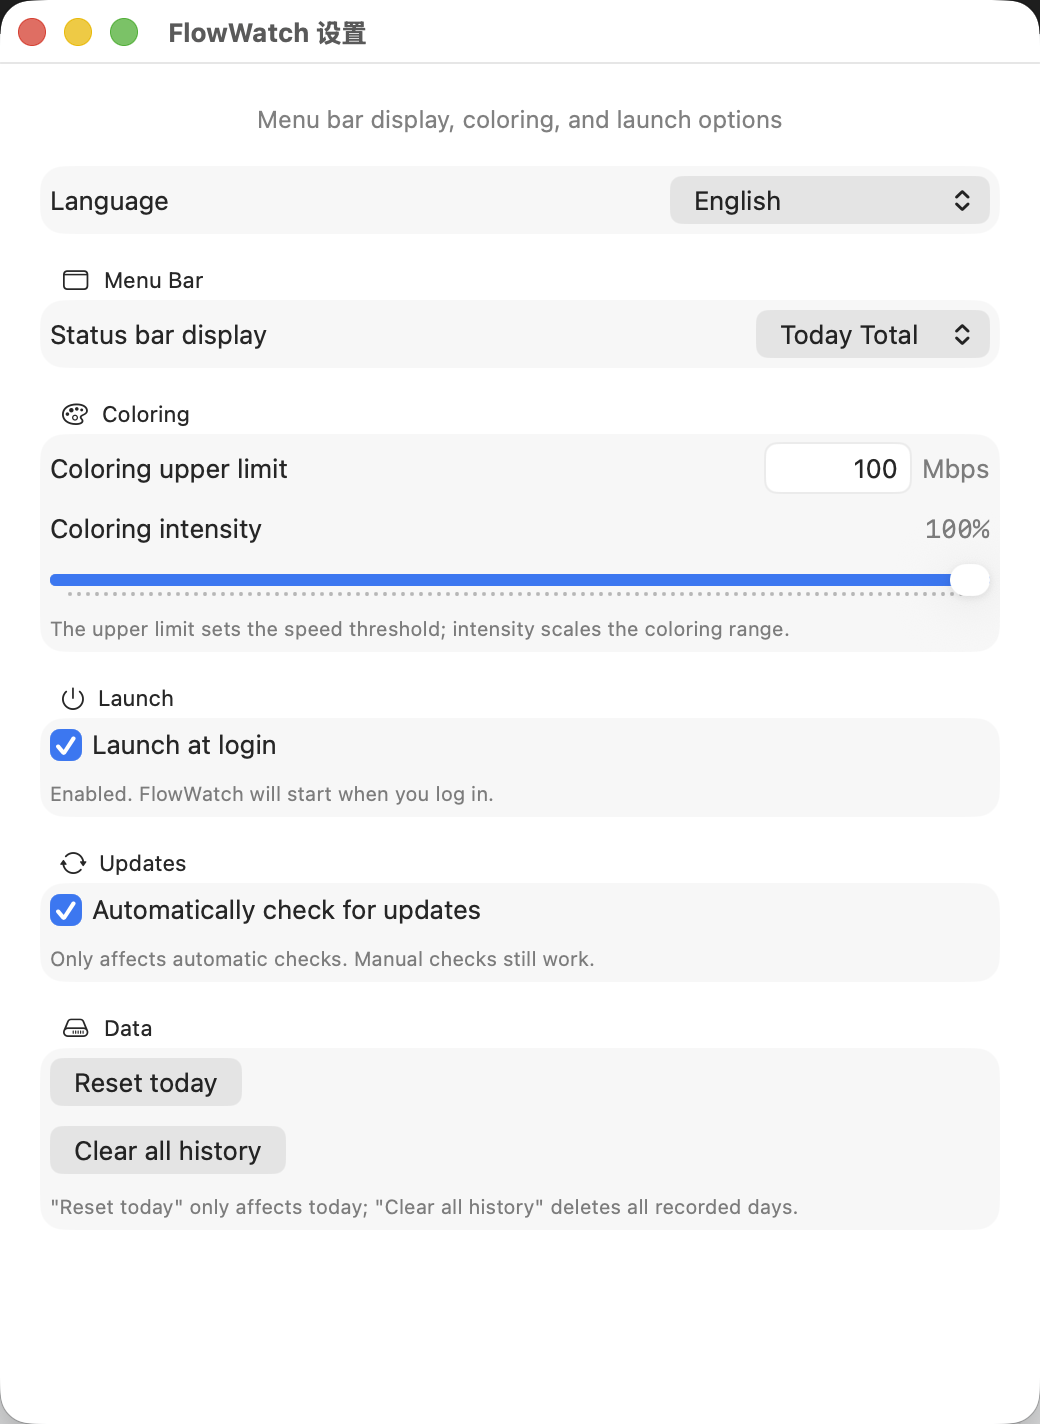
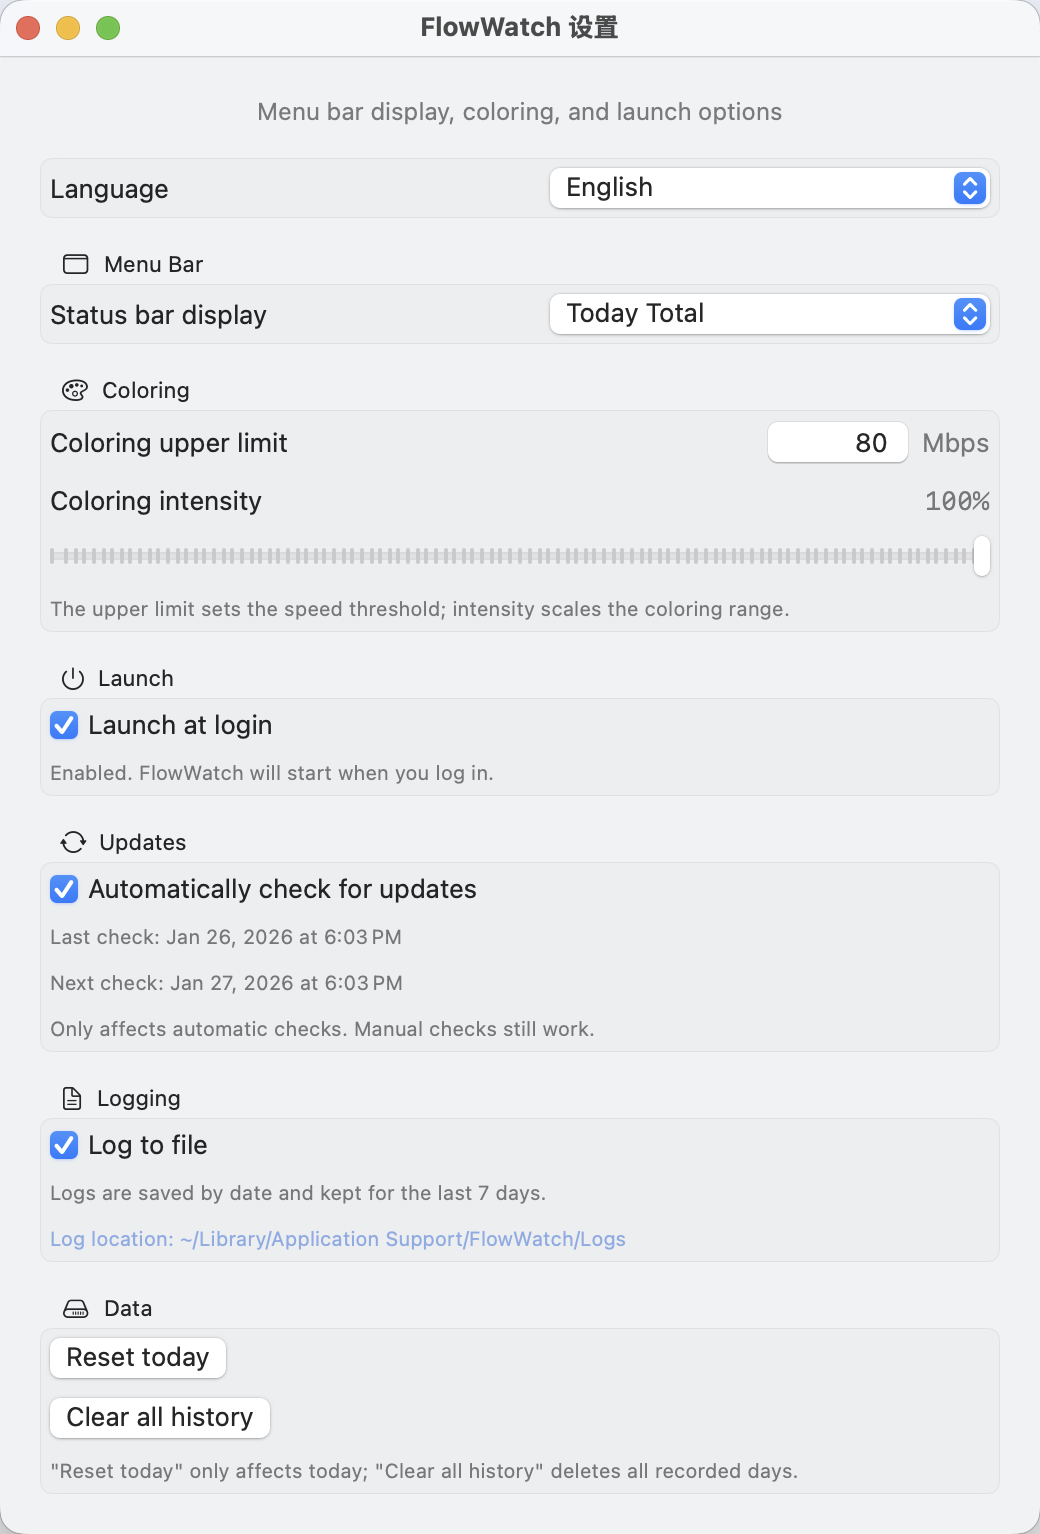
Update README assets and logging details

diff --git a/README.en.md b/README.en.md
@@ -10,10 +10,13 @@
 - Real-time upload/download speed in the menu bar
 - Today/total traffic stats and charts (Charts, macOS 13+)
 - Custom sampling interval and display style
+- Automatic update checks with last/next check time
+- Optional file logging (daily logs, kept for 7 days)
 
 ## Data & Privacy
 - Traffic stats are calculated locally from system network interface counters; no packet content is captured.
 - Settings and daily totals are stored on your device only (UserDefaults).
+- Logs (if enabled) are written locally and never uploaded or synced.
 - No account is required, and the app does not upload or sync your data.
 
 ## Install

diff --git a/README.md b/README.md
@@ -10,10 +10,13 @@
 - 菜单栏实时显示上行/下行速率
 - 今日/累计流量统计与趋势图（Charts，macOS 13+）
 - 自定义采样间隔与显示样式
+- 自动检查更新并显示上次/下次检查时间
+- 可选日志输出（按天保存，保留 7 天）
 
 ## 数据与隐私
 - 流量统计仅在本地基于系统网卡计数器计算，不采集任何包内容。
 - 设置项与每日流量仅保存在本机（UserDefaults）。
+- 日志（如开启）仅写入本地文件，不会上传或同步。
 - 无需账号，应用不会上传或同步你的数据。
 
 ## 安装
